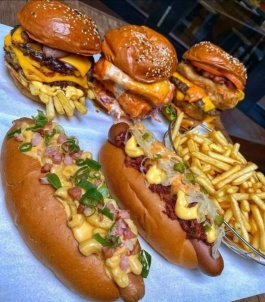
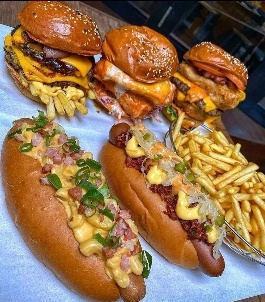
rewrote code to not use any library functions
Refactored all the code to use bicubic interpolation without any library functions, artifacting present on edges

diff --git a/main.py b/main.py
@@ -1,50 +1,110 @@
-import numpy as np
 import cv2
+import numpy as np
 
-def downsample_image(image, downsample_factor):
-    # Convert image from BGR to RGB
-    image = cv2.cvtColor(image, cv2.COLOR_BGR2RGB)
+def downsize_image(input_file, output_file, factor):
+    # Decode the image into a list of RGB tuples
+    data = cv2.imread(input_file)
     
-    # Apply a Gaussian filter to the image
-    image = cv2.GaussianBlur(image, (5, 5), 0)
-    
-    # Downsample the image
-    rows, cols, _ = image.shape
-    downsampled_image = cv2.resize(image, (cols//downsample_factor, rows//downsample_factor), interpolation=cv2.INTER_AREA)
-    
-    return downsampled_image
+    # Calculate the new size of the image
+    new_width = int(len(data[0]) / factor)
+    new_height = int(len(data) / factor)
 
-def upsample_image(image, upsample_factor):
-    # Convert image from BGR to RGB
-    image = cv2.cvtColor(image, cv2.COLOR_BGR2RGB)
+    # Create a new list to store the resized image
+    new_pixels = [[(0, 0, 0) for j in range(new_width)] for i in range(new_height)]
+
+    # Copy pixels from the original image to the new image
+    for i in range(new_height):
+        for j in range(new_width):
+            new_pixels[i][j] = data[i * factor][j * factor]
+
+    # Convert the list of tuples to a 3D Numpy array
+    downsampled_image = np.array(new_pixels, dtype=np.uint8)
+
+    # Write the binary data to the output file
+    cv2.imwrite(output_file, downsampled_image)
+
+def bicubic_interpolation(x, a):
+    if x < 0:
+        x = -x
+    if x <= 1:
+        return (a + 2) * x**3 - (a + 3) * x**2 + 1
+    elif x < 2:
+        return a * x**3 - 5 * a * x**2 + 8 * a * x - 4 * a
+    else:
+        return 0
+
+def bicubic_upsample(input_file, output_file, factor):
+    # Decode the image into a list of RGB tuples
+    pixels = cv2.imread(input_file)
     
+    # Calculate the new size of the image
+    height, width = len(pixels), len(pixels[0])
+    new_height, new_width = height * factor, width * factor
+
+    # Create a new list to store the upsampled image
+    new_pixels = [[(0, 0, 0) for j in range(new_width)] for i in range(new_height)]
+
+    # Set the parameter 'a' for bicubic interpolation
+    a = -0.5
+
     # Upsample the image using bicubic interpolation
-    rows, cols, _ = image.shape
-    new_rows = int(rows * upsample_factor)
-    new_cols = int(cols * upsample_factor)
-    upsampled_image = cv2.resize(image, (new_cols, new_rows), interpolation=cv2.INTER_CUBIC)
+    for i in range(new_height):
+        for j in range(new_width):
+            x, y = i / factor, j / factor
+            x0, y0 = int(x), int(y)
+            dx, dy = x - x0, y - y0
+
+            # Check if the original pixel indices are within the bounds
+            if x0 >= 0 and x0 < height - 1 and y0 >= 0 and y0 < width - 1:
+                # Perform bicubic interpolation on the red channel
+                red = (
+                    min(pixels[x0 - 1][y0 - 1][0] * bicubic_interpolation(dx + 1, a) * bicubic_interpolation(dy + 1, a) +
+                    pixels[x0 - 1][y0][0] * bicubic_interpolation(dx + 1, a) * bicubic_interpolation(dy, a) +
+                    pixels[x0 - 1][y0 + 1][0] * bicubic_interpolation(dx + 1, a) * bicubic_interpolation(1 - dy, a) +
+                    pixels[x0][y0 - 1][0] * bicubic_interpolation(dx, a) * bicubic_interpolation(dy + 1, a) +
+                    pixels[x0][y0][0] * bicubic_interpolation(dx, a) * bicubic_interpolation(dy, a) +
+                    pixels[x0][y0 + 1][0] * bicubic_interpolation(dx, a) * bicubic_interpolation(1 - dy, a) +
+                    pixels[x0 + 1][y0 - 1][0] * bicubic_interpolation(1 - dx, a) * bicubic_interpolation(dy + 1, a) +
+                    pixels[x0 + 1][y0][0] * bicubic_interpolation(1 - dx, a) * bicubic_interpolation(dy, a) +
+                    pixels[x0 + 1][y0 + 1][0] * bicubic_interpolation(1 - dx, a) * bicubic_interpolation(1 - dy, a), 255)
+                )
+
+                # Perform bicubic interpolation on the green channel
+                green = (
+                    min(pixels[x0 - 1][y0 - 1][1] * bicubic_interpolation(dx + 1, a) * bicubic_interpolation(dy + 1, a) +
+                    pixels[x0 - 1][y0][1] * bicubic_interpolation(dx + 1, a) * bicubic_interpolation(dy, a) +
+                    pixels[x0 - 1][y0 + 1][1] * bicubic_interpolation(dx + 1, a) * bicubic_interpolation(1 - dy, a) +
+                    pixels[x0][y0 - 1][1] * bicubic_interpolation(dx, a) * bicubic_interpolation(dy + 1, a) +
+                    pixels[x0][y0][1] * bicubic_interpolation(dx, a) * bicubic_interpolation(dy, a) +
+                    pixels[x0][y0 + 1][1] * bicubic_interpolation(dx, a) * bicubic_interpolation(1 - dy, a) +
+                    pixels[x0 + 1][y0 - 1][1] * bicubic_interpolation(1 - dx, a) * bicubic_interpolation(dy + 1, a) +
+                    pixels[x0 + 1][y0][1] * bicubic_interpolation(1 - dx, a) * bicubic_interpolation(dy, a) +
+                    pixels[x0 + 1][y0 + 1][1] * bicubic_interpolation(1 - dx, a) * bicubic_interpolation(1 - dy, a), 255)
+                )
+
+                # Perform bicubic interpolation on the blue channel
+                blue = (
+                    min(pixels[x0 - 1][y0 - 1][2] * bicubic_interpolation(dx + 1, a) * bicubic_interpolation(dy + 1, a) +
+                    pixels[x0 - 1][y0][2] * bicubic_interpolation(dx + 1, a) * bicubic_interpolation(dy, a) +
+                    pixels[x0 - 1][y0 + 1][2] * bicubic_interpolation(dx + 1, a) * bicubic_interpolation(1 - dy, a) +
+                    pixels[x0][y0 - 1][2] * bicubic_interpolation(dx, a) * bicubic_interpolation(dy + 1, a) +
+                    pixels[x0][y0][2] * bicubic_interpolation(dx, a) * bicubic_interpolation(dy, a) +
+                    pixels[x0][y0 + 1][2] * bicubic_interpolation(dx, a) * bicubic_interpolation(1 - dy, a) +
+                    pixels[x0 + 1][y0 - 1][2] * bicubic_interpolation(1 - dx, a) * bicubic_interpolation(dy + 1, a) +
+                    pixels[x0 + 1][y0][2] * bicubic_interpolation(1 - dx, a) * bicubic_interpolation(dy, a) +
+                    pixels[x0 + 1][y0 + 1][2] * bicubic_interpolation(1 - dx, a) * bicubic_interpolation(1 - dy, a), 255)
+                )
+
+            # Combine the red, green, and blue channels to form the final pixel value
+            new_pixels[i][j] = (red, green, blue)
     
-    # Apply a sharpening filter to the upsampled image
-    kernel = np.array([[-1,-1,-1], [-1,9,-1], [-1,-1,-1]])
-    sharpened_image = cv2.filter2D(upsampled_image, -1, kernel)
     
-    return sharpened_image
+    # Convert the list of tuples to a 3D Numpy array
+    upsampled_image = np.array(new_pixels, dtype=np.uint8)
 
-# Load a base image
-image = cv2.imread('hotdawg.jpg')
+    # Save the upsampled image as a new image file
+    cv2.imwrite(output_file, upsampled_image)
 
-# Downsample the image by a factor of 4
-downsampled_image = downsample_image(image, 4)
-
-# Save the downsampled image
-cv2.imwrite('downsampled_hotdawg.jpg', cv2.cvtColor(downsampled_image, cv2.COLOR_RGB2BGR))
-
-
-# Load the downsampled image
-image = cv2.imread('downsampled_hotdawg.jpg')
-
-# Upsample the image by a factor of 4
-upsampled_image = upsample_image(image, 4)
-
-# Save the upsampled image
-cv2.imwrite('upsampled_image.jpg', cv2.cvtColor(upsampled_image, cv2.COLOR_RGB2BGR))
+# Example usage, bicubic upsample takes a long time, downsize is much faster, dont use both at the same time
+downsize_image("hotdawg.jpg", "downsampled_hotdawg.jpg", 4)
+# bicubic_upsample("downsampled_hotdawg.jpg", "upsampled_hotdawg.jpg", 4)
